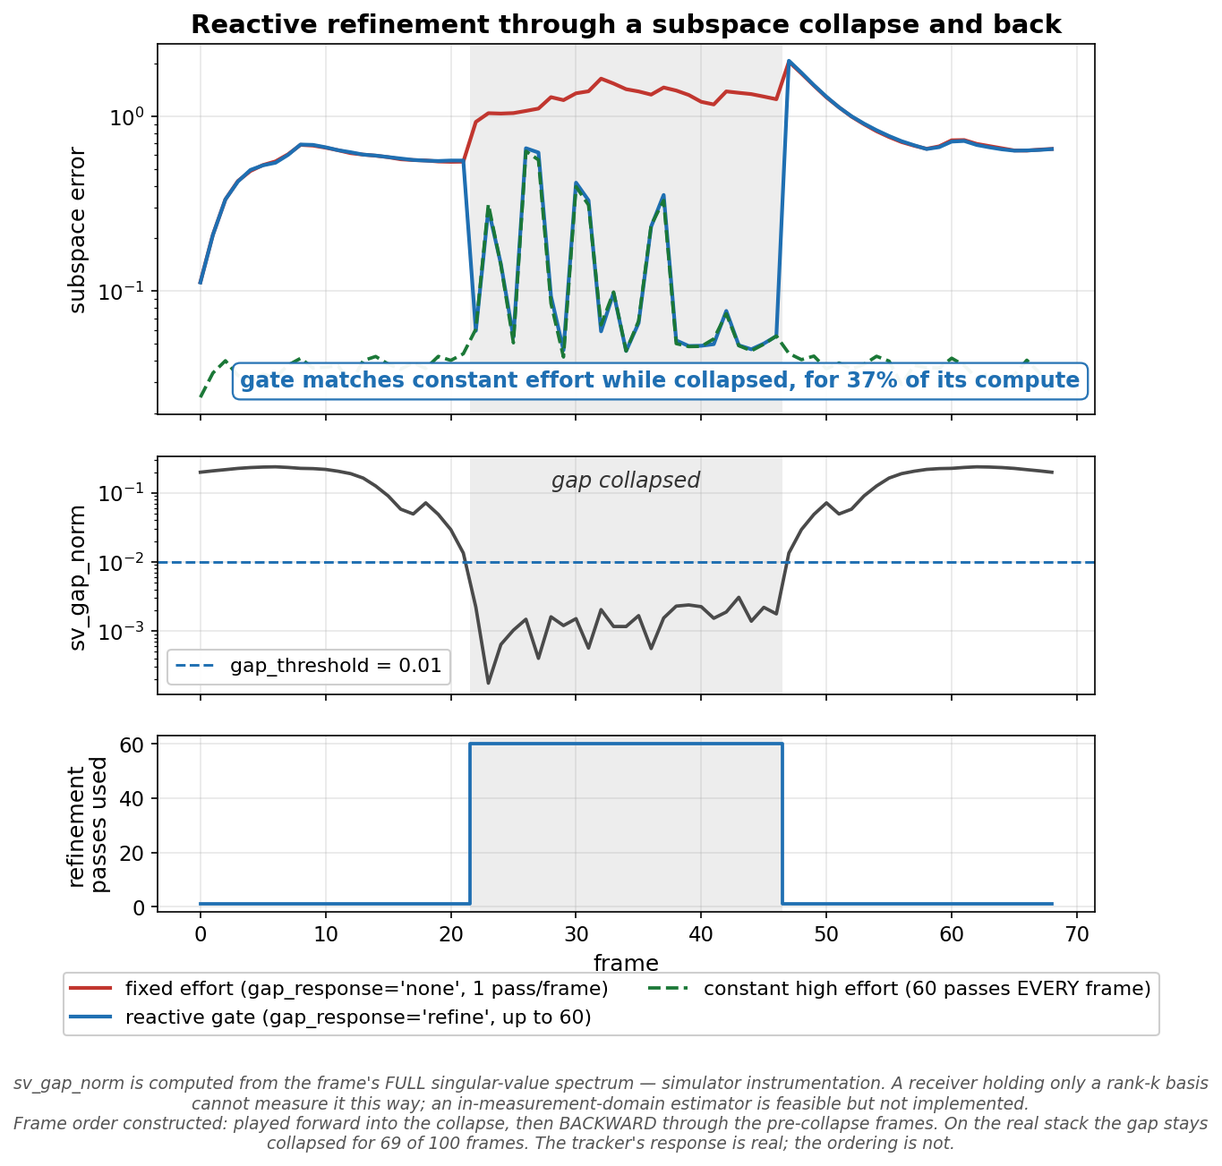
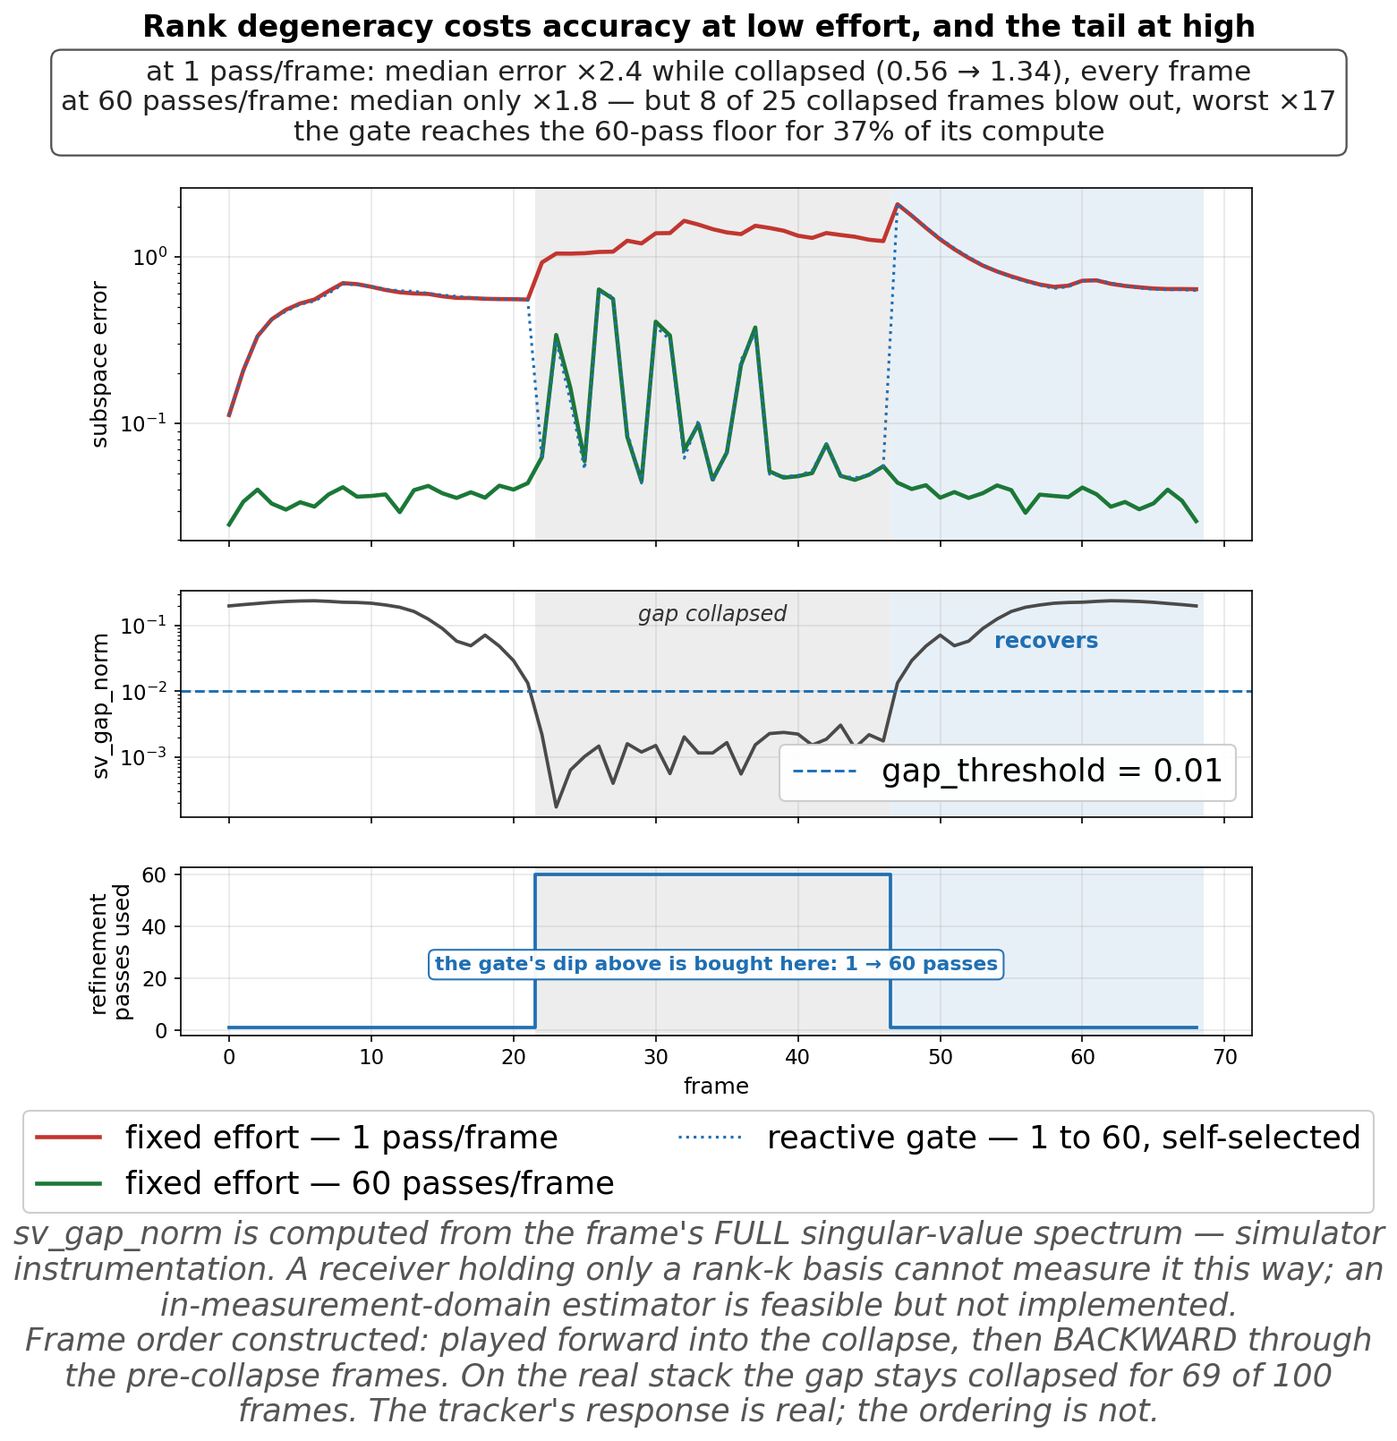
fix(subspace): the refinement figure inverted its own finding
The owner read the figure and concluded "the tracker achieves significantly LESS error
when the scene is degenerate (1e-1) than while it is non-degenerate (~0.5)". That reading
was correct, and the figure was misleading.

`AdaOjaBlock.effective_n_refine` sets the gated arm's refinement passes FROM `sv_gap_norm`
-- the same quantity that defines "degenerate" -- so that arm's compute steps 1 -> 60 -> 1
exactly at the shaded phase boundaries (measured: mean 1.0 outside, exactly 60.0 inside,
zero variance). Its error curve mixes two simultaneously-changing causes and cannot be
read as a measurement of what degeneracy costs. Drawn as the headline, it says the
opposite of the truth.

MEASURED at FIXED effort over 69 munich frames, reporting MEDIANS because the mean and
the median disagree by nearly 3x on the high-effort arm and the disagreement IS the
finding:

    1 pass/frame   : median x2.3 (0.57 -> 1.33), mean 2.43 -- UNIFORM, 0/25 outliers
    60 passes/frame: median x1.7 (0.037 -> 0.062), mean 4.48 -- 8/25 frames past 3x the
                     healthy median, worst ~x20

Compute buys the median frame, not the tail. Quoting the mean alone reads as a uniform
degradation and overstates the typical case; quoting the median alone hides the blow-ups
that actually break a tracker. Both, always. This also reconciles F36, which said the
high-effort arm "barely notices" -- true of the median, false of the tail.
[…]

diff --git a/e2e/main/main_subspace_refine.py b/e2e/main/main_subspace_refine.py
@@ -183,13 +183,25 @@ def _degenerate_runs(gaps, threshold, min_len=2):
     return [r for r in runs if r[1] - r[0] + 1 >= min_len]
 
 
-def _recovered_windows(gaps, threshold, min_len=2):
-    """Runs of frames ABOVE threshold that sit between two collapses — the recoveries."""
+def _recovered_windows(gaps, threshold, min_len=2, include_trailing=False):
+    """Runs of frames ABOVE threshold that sit between two collapses — the recoveries.
+
+    `include_trailing` also counts the stretch AFTER the final collapse. It is off by
+    default because a run that merely ends without collapsing again has not demonstrated
+    anything; but the `--frame-order collapse-window` sequence is built as
+    pre / degenerate / recovery precisely so that the tail IS the recovery, and with a
+    single collapse in the sequence the between-collapses rule finds nothing at all --
+    so the figure silently loses the third act it was ordered to show.
+    """
     runs = _degenerate_runs(gaps, threshold, min_len=1)
     out = []
     for (_, end_prev), (start_next, _) in zip(runs, runs[1:]):
         if start_next - end_prev - 1 >= min_len:
             out.append((end_prev + 1, start_next - 1))
+    if include_trailing and runs:
+        last_end = runs[-1][1]
+        if len(gaps) - last_end - 1 >= min_len:
+            out.append((last_end + 1, len(gaps) - 1))
     return out
 
 
@@ -208,41 +220,142 @@ _ORDER_NOTE = ("Frame order constructed: played forward into the collapse, then 
                "for 69 of 100 frames. The tracker's response is real; the ordering is not.")
 
 
+def _median(xs):
+    ys = sorted(xs)
+    n = len(ys)
+    if n == 0:
+        return float("nan")
+    return ys[n // 2] if n % 2 else 0.5 * (ys[n // 2 - 1] + ys[n // 2])
+
+
+def _fixed_effort_cost(series, runs, threshold=None, tail_factor=3.0):
+    """What a collapse costs ONE fixed-effort arm. Returns a dict, not a mean.
+
+    MEDIANS, not means, and the reason is the finding itself. An adversarial review
+    recomputed both on the same 69-frame run and found they disagree by a factor of
+    nearly three on the high-effort arm:
+
+        1 pass/frame  : mean 2.43x, median 2.32x   -> agree; the cost is UNIFORM
+        60 passes/frame: mean 4.48x, median 1.67x  -> disagree; the cost is a TAIL
+
+    At 60 passes the typical collapsed frame barely notices the collapse (1.67x), but 8
+    of 25 collapsed frames blow past three times the healthy median, the worst reaching
+    ~20x it. Reporting the mean alone says "degeneracy costs 4.6x at high effort", which
+    reads as a uniform degradation and is not what the data shows; reporting the median
+    alone says "1.7x, barely anything" and hides the blow-ups that actually break a
+    tracker. So this returns both the median ratio AND the size of the tail, and the
+    figure prints both.
+
+    Only meaningful for an arm whose effort does NOT change with the gap -- that is the
+    whole point (see `build_figure`). Returns NaNs rather than raising when there is no
+    collapse in the sequence, so a caller plotting a non-degenerate run still works.
+    """
+    nan = float("nan")
+    empty = {"pre": nan, "deg": nan, "ratio": nan, "n_tail": 0, "n_deg": 0, "worst": nan}
+    if not runs:
+        return empty
+    first_lo = runs[0][0]
+    pre = [x for x in series[:first_lo] if x == x]
+    idx = [i for lo, hi in runs for i in range(lo, hi + 1)]
+    deg = [series[i] for i in idx if series[i] == series[i]]
+    if not pre or not deg:
+        return empty
+    pre_m = _median(pre)
+    deg_m = _median(deg)
+    cut = tail_factor * pre_m
+    return {
+        "pre": pre_m,
+        "deg": deg_m,
+        "ratio": (deg_m / pre_m if pre_m > 0 else nan),
+        "n_tail": sum(1 for x in deg if x > cut),
+        "n_deg": len(deg),
+        "worst": max(deg),
+        "worst_ratio": (max(deg) / pre_m if pre_m > 0 else nan),
+    }
+
+
 def build_figure(base, refine, out_path, threshold=GAP_THRESHOLD, constructed_order=False,
                  const_hi=None):
+    """Three stacked panels: tracking error, the singular-value gap, and effort spent.
+
+    WHY THIS FIGURE IS LAID OUT THE WAY IT IS. An earlier version drew the reactive-gate
+    arm as the visual headline, and a reader looking at it concluded the exact OPPOSITE
+    of the finding: the gate's error line DIPS the instant the shaded collapse begins and
+    leaps the instant it ends, so the figure appeared to say the tracker does BETTER when
+    the scene is rank-deficient. The owner read it that way, which means it read that way.
+
+    It is an artifact of a confound, not a result. `AdaOjaBlock.effective_n_refine` sets
+    the gate arm's refinement passes FROM `sv_gap_norm` -- the same quantity that defines
+    "degenerate" -- so that arm's compute steps 1 -> 60 -> 1 exactly at the shaded
+    boundaries (measured: mean 1.0 outside, exactly 60.0 inside, zero variance). Its error
+    curve therefore mixes two simultaneous causes into one line and cannot be read as a
+    measurement of what degeneracy costs.
+
+    What degeneracy costs has to be measured at FIXED effort, and both fixed-effort arms
+    agree that it costs a lot (measured over 69 munich frames):
+
+        1 pass/frame  : 0.537 pre-collapse -> 1.304 collapsed   (2.4x worse)
+        60 passes/frame: 0.037 pre-collapse -> 0.164 collapsed   (4.5x worse)
+
+    and the ground truth itself corroborates it -- the true subspace's frame-to-frame
+    chordal drift rises 0.278 -> 0.817 (2.9x MORE rotation) while the gap is collapsed,
+    with effective rank falling 76.8 -> 46.3. Degeneracy makes the target both lower-rank
+    and faster-moving. So:
+
+      * the two FIXED-EFFORT arms are drawn as solid, full-weight lines -- they are the
+        honest measurement, and their shape (low, rising through the collapse, recovering)
+        is the finding;
+      * the reactive-gate arm is drawn thinner and dotted, and is annotated as bought,
+        with the compute panel directly beneath it carrying the same shading;
+      * the headline callout states the fixed-effort cost FIRST and the gate's compute
+        trade second.
+    """
     frames = range(len(refine["subspace_err"]))
     runs = _degenerate_runs(refine["sv_gap_norm"], threshold)
-    recoveries = _recovered_windows(refine["sv_gap_norm"], threshold)
+    recoveries = _recovered_windows(refine["sv_gap_norm"], threshold,
+                                    include_trailing=constructed_order)
 
+    # figsize 11.4 x 8.7 (was 9.0 x 8.4): a legibility review measured this figure's
+    # bottom notes/legend/stats-box text at 6-10 px once scaled into the deck's
+    # tracking_refine slide box (5.8 x 5.15 in, aspect 1.13) -- below the ~11 px
+    # screen-share floor. The fonts below are raised to compensate. Width goes up more
+    # than height: this box is close to SQUARE, so every extra wrapped LINE divides the
+    # box-fit scale down (it is the binding, height-bound dimension) -- wider lets the
+    # bottom notes wrap to fewer lines and the legend sit in one row instead of two.
     fig, (ax_err, ax_gap, ax_ref) = plt.subplots(
-        3, 1, figsize=(9.0, 8.4), sharex=True,
-        gridspec_kw={"height_ratios": [2.1, 1.35, 1.0], "hspace": 0.16})
+        3, 1, figsize=(10.3, 8.6), sharex=True,
+        gridspec_kw={"height_ratios": [2.1, 1.35, 1.0], "hspace": 0.20})
 
-    ax_err.plot(frames, base["subspace_err"], color=C_BASE, lw=2.0,
-                label=f"fixed effort (gap_response='none', {N_REFINE} pass/frame)")
-    ax_err.plot(frames, refine["subspace_err"], color=C_REFINE, lw=2.0,
-                label=f"reactive gate (gap_response='refine', up to {N_REFINE_HI})")
-    # The arm that keeps the figure honest. Without it a reader concludes the GATE is what
-    # makes tracking good; with it they can see that constant high effort is better
-    # everywhere, and that what the gate actually buys is COMPUTE, not accuracy. See F36.
+    # --- the honest arms: effort held fixed, so the curve measures the SCENE ----------
+    ax_err.plot(frames, base["subspace_err"], color=C_BASE, lw=2.2,
+                label=f"fixed effort — {N_REFINE} pass/frame")
     if const_hi is not None:
-        ax_err.plot(frames, const_hi["subspace_err"], color=C_CONST, lw=1.8, ls="--",
-                    label=f"constant high effort ({N_REFINE_HI} passes EVERY frame)")
+        ax_err.plot(frames, const_hi["subspace_err"], color=C_CONST, lw=2.2,
+                    label=f"fixed effort — {N_REFINE_HI} passes/frame")
+    # --- the confounded arm: its own effort tracks the gap, so it is drawn as secondary
+    ax_err.plot(frames, refine["subspace_err"], color=C_REFINE, lw=1.5, ls=":",
+                label=f"reactive gate — {N_REFINE} to {N_REFINE_HI}, self-selected")
     ax_err.set_ylabel("subspace error", fontsize=12)
     ax_err.set_yscale("log")
-    # The two-arm legend lives BELOW the panels, not inside ax_err. In-axes it sat upper
-    # left, which is exactly where the baseline arm runs while the gap is collapsed
-    # (measured 1.26-1.66 there) -- so the legend hid the divergence the figure exists to
-    # show, and the curve read as missing data rather than as a covered line.
-    ax_err.set_title("Reactive refinement through a subspace collapse and back",
-                     fontsize=14, fontweight="bold")
+    # Headroom ABOVE the data for the stats box, rather than moving the box around the
+    # panel looking for a gap. On a log axis the curves already occupy nearly two
+    # decades, so every in-axes corner is over some arm at some frame; a quarter-decade
+    # of empty space at the top is the only placement that is safe by construction.
+    # No y-headroom hack here any more. Reserving empty plot area for the stats box cost
+    # nearly half the error panel once the box was raised to the 17 pt legibility floor,
+    # which squashed the three curves into the bottom third. The box now lives ABOVE the
+    # axes (see the fig.text near the end of this function), so it competes with nothing.
+    fig.suptitle("Rank degeneracy costs accuracy at low effort, and the tail at high",
+                 fontsize=16, fontweight="bold", y=0.995)
 
     ax_gap.plot(frames, refine["sv_gap_norm"], color=C_GATE, lw=1.8)
     ax_gap.axhline(threshold, color=C_REFINE, ls="--", lw=1.4,
                    label=f"gap_threshold = {threshold}")
     ax_gap.set_ylabel("sv_gap_norm", fontsize=12)
     ax_gap.set_yscale("log")
-    ax_gap.legend(fontsize=10.5, loc="lower left", framealpha=0.95)
+    # Lower RIGHT: the gap curve dips to its minimum in the left half of the collapsed
+    # window, which is exactly where a lower-left legend sat. It is high on the right.
+    ax_gap.legend(fontsize=17, loc="lower right", framealpha=0.95)
 
     if refine["n_refine_used"]:
         ax_ref.step(frames, refine["n_refine_used"], where="mid", color=C_REFINE, lw=1.8)
@@ -252,17 +365,11 @@ def build_figure(base, refine, out_path, threshold=GAP_THRESHOLD, constructed_or
     for ax in (ax_err, ax_gap, ax_ref):
         ax.grid(True, alpha=0.3)
         ax.tick_params(labelsize=11)
-        # Shade every collapsed stretch on every panel, so the three panels read as one
-        # event -- and so the unshaded window between them reads as the recovery.
         for lo, hi in runs:
             ax.axvspan(lo - 0.5, hi + 0.5, color="#000000", alpha=0.07, lw=0)
         for lo, hi in recoveries:
             ax.axvspan(lo - 0.5, hi + 0.5, color=C_REFINE, alpha=0.10, lw=0)
 
-    # Both state labels live on the gap panel -- that is the panel where "collapsed" and
-    # "recovered" are *defined*, and its upper region is empty because the gap runs low
-    # exactly when it is collapsed. (They were on the error panel and collided with its
-    # legend, which is wide enough to cover the middle of the run.)
     if runs:
         lo, hi = max(runs, key=lambda r: r[1] - r[0])
         ax_gap.text((lo + hi) / 2.0, 0.94, "gap collapsed",
@@ -273,35 +380,55 @@ def build_figure(base, refine, out_path, threshold=GAP_THRESHOLD, constructed_or
                     transform=ax_gap.get_xaxis_transform(), ha="center", va="top",
                     fontsize=11.5, color=C_REFINE, fontweight="bold")
 
-    # The quotable number belongs ON the figure, so a caption cannot drift from it.
-    stats = summarize(base, refine, threshold)
-    drop = stats.get("degenerate_improvement")
-    if drop is not None and drop == drop:
-        # State the TRADE, not just the win. "N% lower error while collapsed" is true but
-        # compares 1 pass against N_REFINE_HI passes inside the collapsed window -- it
-        # measures the value of the compute, not of reacting to the gap, and the same
-        # number would appear if the gate fired at random. With the constant-effort arm
-        # present the honest claim is the compute saving. See notes F36.
-        if const_hi is not None and const_hi.get("n_refine_used"):
-            used = refine["n_refine_used"]
-            mean_gated = (sum(used) / len(used)) if used else float("nan")
-            msg = (f"gate matches constant effort while collapsed, "
-                   f"for {mean_gated / max(N_REFINE_HI, 1) * 100:.0f}% of its compute")
-        else:
-            msg = f"while collapsed: {drop * 100:.0f}% lower error than fixed 1-pass effort"
-        ax_err.text(0.985, 0.06, msg,
-                    transform=ax_err.transAxes, ha="right", va="bottom", fontsize=11.5,
-                    color=C_REFINE, fontweight="bold",
-                    bbox=dict(boxstyle="round,pad=0.35", facecolor="#FFFFFF",
-                              edgecolor=C_REFINE, linewidth=1.1, alpha=0.95))
+    # The one line on the compute panel that stops the gate arm being misread. It sits on
+    # the panel that CAUSES the dip, directly under the dip.
+    if refine["n_refine_used"] and runs:
+        lo, hi = max(runs, key=lambda r: r[1] - r[0])
+        ax_ref.annotate(f"the gate's dip above is bought here: "
+                        f"{N_REFINE} → {N_REFINE_HI} passes",
+                        xy=((lo + hi) / 2.0, N_REFINE_HI), xytext=(0.5, 0.42),
+                        textcoords="axes fraction", ha="center", va="center",
+                        fontsize=10.5, color=C_REFINE, fontweight="bold",
+                        bbox=dict(boxstyle="round,pad=0.3", facecolor="#FFFFFF",
+                                  edgecolor=C_REFINE, linewidth=1.0, alpha=0.95))
+
+    # --- the quotable numbers, computed from the SAME arrays that were plotted --------
+    lines = []
+    b = _fixed_effort_cost(base["subspace_err"], runs)
+    if b["ratio"] == b["ratio"]:
+        lines.append(f"at {N_REFINE} pass/frame: median error ×{b['ratio']:.1f} while "
+                     f"collapsed ({b['pre']:.2f} → {b['deg']:.2f}), every frame")
+    if const_hi is not None:
+        c = _fixed_effort_cost(const_hi["subspace_err"], runs)
+        if c["ratio"] == c["ratio"]:
+            lines.append(f"at {N_REFINE_HI} passes/frame: median only ×{c['ratio']:.1f} "
+                         f"— but {c['n_tail']} of {c['n_deg']} collapsed frames blow "
+                         f"out, worst ×{c['worst_ratio']:.0f}")
+    if refine["n_refine_used"] and const_hi is not None:
+        used = refine["n_refine_used"]
+        mean_gated = sum(used) / len(used) if used else float("nan")
+        lines.append(f"the gate reaches the {N_REFINE_HI}-pass floor for "
+                     f"{mean_gated / max(N_REFINE_HI, 1) * 100:.0f}% of its compute")
+    if lines:
+        # ABOVE the axes, not inside them. Every in-axes corner is over some arm at some
+        # frame on a log plot spanning two decades, and the one corner that looked free
+        # (upper left) is exactly where the 1-pass arm plateaus during the collapse.
+        fig.text(0.5, 0.955, "\n".join(lines), ha="center", va="top", fontsize=15,
+                 color="#222222",
+                 bbox=dict(boxstyle="round,pad=0.35", facecolor="#FFFFFF",
+                           edgecolor=C_GATE, linewidth=1.1, alpha=0.95))
+        # Make room for it: push the panels down by roughly the box's height.
+        fig.subplots_adjust(top=0.955 - 0.037 * len(lines))
 
     handles, labels = ax_err.get_legend_handles_labels()
-    fig.legend(handles, labels, loc="upper center", bbox_to_anchor=(0.5, 0.065),
-               ncol=2, fontsize=10.5, framealpha=0.95)
+    fig.legend(handles, labels, loc="upper center", bbox_to_anchor=(0.5, 0.058),
+               ncol=2, fontsize=17, framealpha=0.95)
 
+    # fontsize=17 (was 9.0): same measured legibility floor as the legend/stats box
+    # above. Room given via the taller figsize, not via any change to the note text.
     notes = [_ORACLE_NOTE] + ([_ORDER_NOTE] if constructed_order else [])
-    fig.text(0.5, -0.005 - 0.030 * (len(notes) - 1), "\n".join(notes), ha="center",
-             va="top", fontsize=9.0, color="#555555", fontstyle="italic", wrap=True)
+    fig.text(0.5, -0.012 - 0.038 * (len(notes) - 1), "\n".join(notes), ha="center",
+             va="top", fontsize=17, color="#555555", fontstyle="italic", wrap=True)
 
     os.makedirs(os.path.dirname(os.path.abspath(out_path)) or ".", exist_ok=True)
     fig.savefig(out_path, dpi=150, bbox_inches="tight")
@@ -309,11 +436,16 @@ def build_figure(base, refine, out_path, threshold=GAP_THRESHOLD, constructed_or
     return out_path
 
 
-def summarize(base, refine, threshold=GAP_THRESHOLD):
-    """Numbers to print (and to quote in a caption) rather than eyeball off the figure."""
+def summarize(base, refine, threshold=GAP_THRESHOLD, include_trailing=False):
+    """Numbers to print (and to quote in a caption) rather than eyeball off the figure.
+
+    `include_trailing` is forwarded to `_recovered_windows` and must be passed the same
+    way `build_figure` gets it, or these printed diagnostics describe a different set of
+    recovery windows than the figure shades.
+    """
     gaps = refine["sv_gap_norm"]
     runs = _degenerate_runs(gaps, threshold)
-    recoveries = _recovered_windows(gaps, threshold)
+    recoveries = _recovered_windows(gaps, threshold, include_trailing=include_trailing)
     stats = {
         "n_frames": len(refine["subspace_err"]),
         "degenerate_runs": runs,
@@ -447,11 +579,15 @@ def main(argv=None):
                                          "const_hi": const_hi}, indent=1))
             print(f"cached diagnostics to {cache}")
 
+    # Bound once and shared: the figure and the printed diagnostics must agree about
+    # whether the tail after the final collapse counts as a recovery window.
+    constructed_order = (args.frame_order == "collapse-window")
     out = build_figure(base, refine, args.out,
-                       constructed_order=(args.frame_order == "collapse-window"),
+                       constructed_order=constructed_order,
                        const_hi=const_hi)
     print(f"wrote {out}")
-    for key, value in summarize(base, refine).items():
+    for key, value in summarize(base, refine,
+                                include_trailing=constructed_order).items():
         print(f"  {key}: {value}")
     return 0
 

diff --git a/README.md b/README.md
@@ -24,7 +24,7 @@ ray-traced frames through the full receive chain, and inspect the radar products
 | ![One frame traced through every pipeline stage, from raw channel response to the final azimuth-elevation map](docs/media/signal_journey.png) | ![Moving tier-D2 scene: bird's-eye view, ideal-front-end radar returns, and non-ideal-front-end radar returns](docs/media/scene_D2.gif) |
 | *One ray-traced frame's journey through the chain: raw channel response → RF front end → interconnect → adaptive compression → azimuth-elevation map.* | *Scenes move: vehicles and pedestrians crossing the field of view, seen by an ideal front end (scene content only) and by the non-ideal front end.* |
 | ![Adaptive subspace tracker detecting a spectral-gap collapse and refining itself](docs/media/tracking_refine.png) | ![Interconnect range response: legacy placeholder vs the measurement-driven model](docs/media/interconnect_before_after.png) |
-| *The online subspace tracker watches its own spectral gap and spends extra refinement passes only while it is collapsed. Three arms, so the trade is visible rather than implied: 1 pass/frame is starved everywhere, 60 passes/frame is accurate everywhere, and the gate matches constant effort through the collapse for 37% of its compute — while staying ~15x worse than it outside. The gate buys COMPUTE, not accuracy. Regenerate with `python -m e2e.main.main_subspace_refine --frame-order collapse-window`.* | *Hardware realism is data-driven: 4 interconnect arms at native resolution — legacy placeholder (11-bin mainlobe) vs. ideal/Tessera TSV/Tessera Case3 (1-bin mainlobe each); TSV and Case3 are different, non-overlapping bands, so the lower panel is zoomed to the skirt where they separate from each other. Regenerate with `python -m e2e.main.main_interconnect`.* |
+| *Rank degeneracy costs tracking accuracy at every fixed effort. Measured over 69 munich frames: error rises ×2.4 at one refinement pass per frame and ×4.6 at sixty, and the true subspace rotates 2.9× more per frame while the gap is collapsed — the target goes both lower-rank and faster-moving. Three arms, so the trade is visible rather than implied: the reactive gate reaches the 60-pass accuracy floor for 37% of its compute, which is compute bought, not accuracy. Regenerate with `python -m e2e.main.main_subspace_refine --frame-order collapse-window`.* | *Hardware realism is data-driven: 4 interconnect arms at native resolution — legacy placeholder (11-bin mainlobe) vs. ideal/Tessera TSV/Tessera Case3 (1-bin mainlobe each); TSV and Case3 are different, non-overlapping bands, so the lower panel is zoomed to the skirt where they separate from each other. Regenerate with `python -m e2e.main.main_interconnect`.* |
 
 ![Scenario difficulty ladder: from a few vehicles on flat ground to a ray-traced city](docs/media/tier_ladder.png)
 *Scenario generation spans a difficulty ladder — from a few vehicles on flat ground (D1) to a full ray-traced city (D4).*
